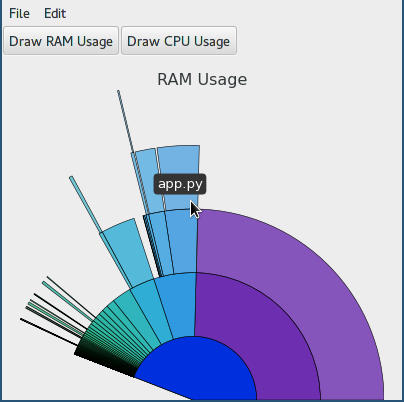
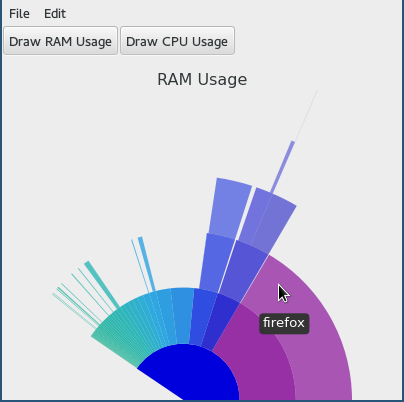
Removed wedge edge lines.
Looks much nicer this way. It (mostly) fixes the warping that can be
seen when many small processes are close together and removes the fade
to black with the smallest processes at the end of the process list.

diff --git a/chart.py b/chart.py
@@ -150,7 +150,7 @@ def draw_proc(p, ax, start_angle, depth, p_dicts, p_childrens, center, key,
         wedge = ProcessWedge(
             p_dicts[p.pid], depth, center, r, start_angle,
             start_angle + p_arc, width=0.1, facecolor=w_color,
-            linewidth=0.5, edgecolor=(0, 0, 0))
+            linewidth=0)
         ax.add_artist(wedge)
 
         bounds = wedge.get_bounds()
